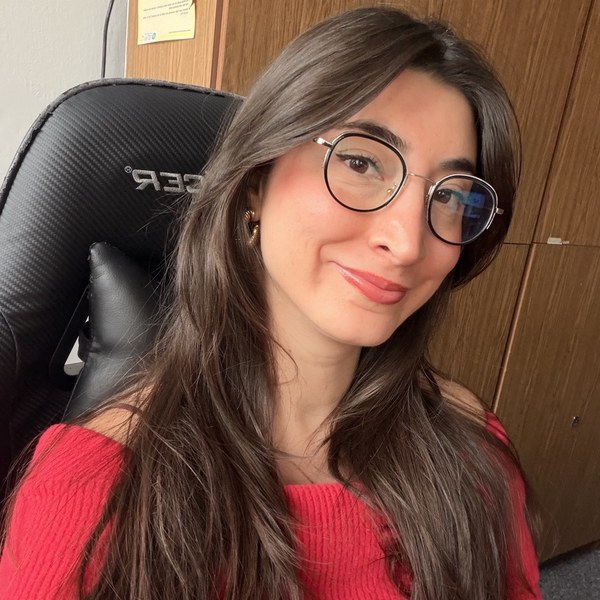
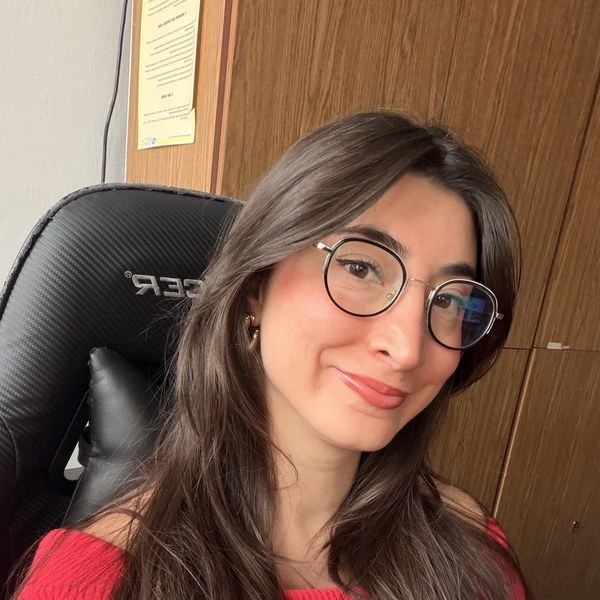
Fix sidebar wrapping, photo crop, share buttons, footer and publication badges

diff --git a/_sass/layout/_modern.scss b/_sass/layout/_modern.scss
@@ -772,3 +772,89 @@ body {
     object-fit: cover;
   }
 }
+
+/*
+   Sidebar: let long labels wrap instead of overflowing
+   ========================================================================== */
+
+.sidebar {
+  overflow-x: hidden;
+}
+
+@include breakpoint($large) {
+  .author__urls li {
+    white-space: normal;
+    display: flex;
+    align-items: flex-start;
+    gap: 0.35em;
+    margin-bottom: 0.45em;
+    line-height: 1.4;
+
+    > i,
+    > a > i {
+      flex: 0 0 auto;
+      margin-top: 0.22em;
+    }
+
+    > a {
+      display: flex;
+      align-items: flex-start;
+      gap: 0.35em;
+    }
+  }
+
+  .author__urls .icon-pad-right {
+    padding-right: 0;
+  }
+}
+
+/*
+   Publication type badge (top-right corner of the card)
+   ========================================================================== */
+
+.archive > .list__item > .archive__item--badged {
+  position: relative;
+
+  @include breakpoint($medium) {
+    .archive__item-title {
+      padding-right: 7.5rem;
+    }
+  }
+}
+
+.pub-badge {
+  display: inline-block;
+  margin-bottom: 0.5rem;
+  padding: 0.22rem 0.65rem;
+  font-size: 0.72em;
+  font-weight: 600;
+  letter-spacing: 0.04em;
+  text-transform: uppercase;
+  line-height: 1.4;
+  border-radius: 999px;
+  border: 1px solid transparent;
+  color: var(--badge-fg);
+  background: var(--badge-bg);
+  border-color: var(--badge-border);
+
+  @include breakpoint($medium) {
+    position: absolute;
+    top: 1rem;
+    right: 1.1rem;
+    margin-bottom: 0;
+  }
+}
+
+.pub-badge--journal    { --badge-bg: #e0e7ff; --badge-fg: #3730a3; --badge-border: #c7d2fe; }
+.pub-badge--conference { --badge-bg: #ccfbf1; --badge-fg: #115e59; --badge-border: #99f6e4; }
+.pub-badge--poster     { --badge-bg: #fef3c7; --badge-fg: #92400e; --badge-border: #fde68a; }
+.pub-badge--report     { --badge-bg: #fce7f3; --badge-fg: #9d174d; --badge-border: #fbcfe8; }
+.pub-badge--research-article { --badge-bg: #dcfce7; --badge-fg: #166534; --badge-border: #bbf7d0; }
+
+html[data-theme="dark"] {
+  .pub-badge--journal    { --badge-bg: rgba(129, 140, 248, 0.18); --badge-fg: #c7d2fe; --badge-border: rgba(129, 140, 248, 0.35); }
+  .pub-badge--conference { --badge-bg: rgba(45, 212, 191, 0.16); --badge-fg: #99f6e4; --badge-border: rgba(45, 212, 191, 0.35); }
+  .pub-badge--poster     { --badge-bg: rgba(251, 191, 36, 0.16); --badge-fg: #fde68a; --badge-border: rgba(251, 191, 36, 0.35); }
+  .pub-badge--report     { --badge-bg: rgba(244, 114, 182, 0.16); --badge-fg: #fbcfe8; --badge-border: rgba(244, 114, 182, 0.35); }
+  .pub-badge--research-article { --badge-bg: rgba(74, 222, 128, 0.16); --badge-fg: #bbf7d0; --badge-border: rgba(74, 222, 128, 0.35); }
+}

diff --git a/_includes/social-share.html b/_includes/social-share.html
@@ -6,13 +6,11 @@
     <h4 class="page__share-title">{{ site.data.ui-text[site.locale].share_on_label | default: "Share on" }}</h4>
   {% endif %}
 
-  <a href="https://bsky.app/intent/compose?text={{ share_url }}" class="btn btn--bluesky" title="{{ site.data.ui-text[site.locale].share_on_label | default: 'Share on' }} Bluesky"><i class="fab fa-bluesky" aria-hidden="true"></i><span> Bluesky</span></a>
 
   <a href="https://www.facebook.com/sharer/sharer.php?u={{ share_url }}" class="btn btn--facebook" title="{{ site.data.ui-text[site.locale].share_on_label | default: 'Share on' }} Facebook"><i class="fab fa-facebook" aria-hidden="true"></i><span> Facebook</span></a>
 
   <a href="https://www.linkedin.com/shareArticle?mini=true&url={{ share_url }}" class="btn btn--linkedin" title="{{ site.data.ui-text[site.locale].share_on_label | default: 'Share on' }} LinkedIn"><i class="fab fa-linkedin" aria-hidden="true"></i><span> LinkedIn</span></a>
 
-  <a href="https://www.addtoany.com/add_to/mastodon?linkurl={{ share_url }}" class="btn btn--mastodon" title="{{ site.data.ui-text[site.locale].share_on_label | default: 'Share on' }} Mastodon"><i class="fab fa-mastodon" aria-hidden="true"></i><span> Mastodon</span></a>
 
   <a href="https://x.com/intent/post?text={{ share_url }}" class="btn btn--x" title="{{ site.data.ui-text[site.locale].share_on_label | default: 'Share on' }} X"><i class="fab fa-x-twitter" aria-hidden="true"></i><span> X (formerly Twitter)</span></a>
 </section>

diff --git a/_pages/publications.html b/_pages/publications.html
@@ -5,32 +5,10 @@ permalink: /publications/
 author_profile: true
 ---
 
-{% if site.author.googlescholar %}
-  <div class="wordwrap">You can also find my articles on <a href="{{site.author.googlescholar}}">my Google Scholar profile</a>.</div>
-{% endif %}
-
 {% include base_path %}
 
-<!-- New style rendering if publication categories are defined -->
-{% if site.publication_category %}
-  {% for category in site.publication_category  %}
-    {% assign title_shown = false %}
-    {% for post in site.publications reversed %}
-      {% if post.category != category[0] %}
-        {% continue %}
-      {% endif %}
-      {% unless title_shown %}
-        <h2>{{ category[1].title }}</h2><hr />
-        {% assign title_shown = true %}
-      {% endunless %}
-      {% include archive-single.html %}
-    {% endfor %}
-  {% endfor %}
-{% else %}
-  {% for post in site.publications reversed %}
-    {% include archive-single.html %}
-  {% endfor %}
-{% endif %}
+<p class="archive__subtitle">Newest first. The full list is also on <a href="https://orcid.org/0000-0002-0306-7281">ORCID</a> and the <a href="https://www.iitis.pl/en/people/person/nkelesoglu/publications">IITiS PAN profile</a>.</p>
 
-
-
+{% for post in site.publications reversed %}
+  {% include archive-single.html %}
+{% endfor %}

diff --git a/_includes/archive-single.html b/_includes/archive-single.html
@@ -12,8 +12,21 @@
   {% assign title = post.title %}
 {% endif %}
 
+{% if post.collection == 'publications' %}
+  {% assign badge = post.badge %}
+  {% unless badge %}
+    {% case post.category %}
+      {% when 'manuscripts' %}{% assign badge = 'Journal' %}
+      {% when 'conferences' %}{% assign badge = 'Conference' %}
+      {% else %}{% assign badge = 'Report' %}
+    {% endcase %}
+  {% endunless %}
+  {% assign badge_class = badge | downcase | replace: ' ', '-' %}
+{% endif %}
+
 <div class="{{ include.type | default: "list" }}__item">
-  <article class="archive__item" itemscope itemtype="http://schema.org/CreativeWork">
+  <article class="archive__item{% if badge %} archive__item--badged{% endif %}" itemscope itemtype="http://schema.org/CreativeWork">
+    {% if badge %}<span class="pub-badge pub-badge--{{ badge_class }}">{{ badge }}</span>{% endif %}
     {% if include.type == "grid" and teaser %}
       <div class="archive__item-teaser">
         <img src=

diff --git a/_includes/footer.html b/_includes/footer.html
@@ -20,6 +20,6 @@
 {% endif %}
 
 <div class="page__footer-copyright">
-  &copy; {{ site.time | date: '%Y' }} {{ site.name | default: site.title }}. Built with <a href="https://jekyllrb.com" rel="nofollow">Jekyll</a> &amp; <a href="https://github.com/academicpages/academicpages.github.io">Academic Pages</a>.
-  Last updated {{ "now" | date: '%Y-%m-%d' }} &middot; <a href="/sitemap/">{{ site.data.ui-text[site.locale].site_map | default: "Sitemap" }}</a>
+  &copy; {{ site.time | date: '%Y' }} {{ site.name | default: site.title }}. All rights reserved.<br />
+  Built with <a href="https://jekyllrb.com" rel="nofollow">Jekyll</a> &amp; <a href="https://github.com/academicpages/academicpages.github.io">Academic Pages</a> &middot; Last updated {{ "now" | date: '%Y-%m-%d' }}
 </div>

diff --git a/_publications/2026-01-01-cpu-utilization-forecasting-in-large-scale-cloud.md b/_publications/2026-01-01-cpu-utilization-forecasting-in-large-scale-cloud.md
@@ -2,6 +2,7 @@
 title: "CPU Utilization Forecasting in Large-Scale Cloud Clusters Using Gradient Boosting"
 collection: publications
 category: conferences
+badge: Poster
 permalink: /publication/2026-01-01-cpu-utilization-forecasting-in-large-scale-cloud
 excerpt: 'N. Keleşoğlu, Ł. Sobczak, J. Domańska'
 date: 2026-01-01
